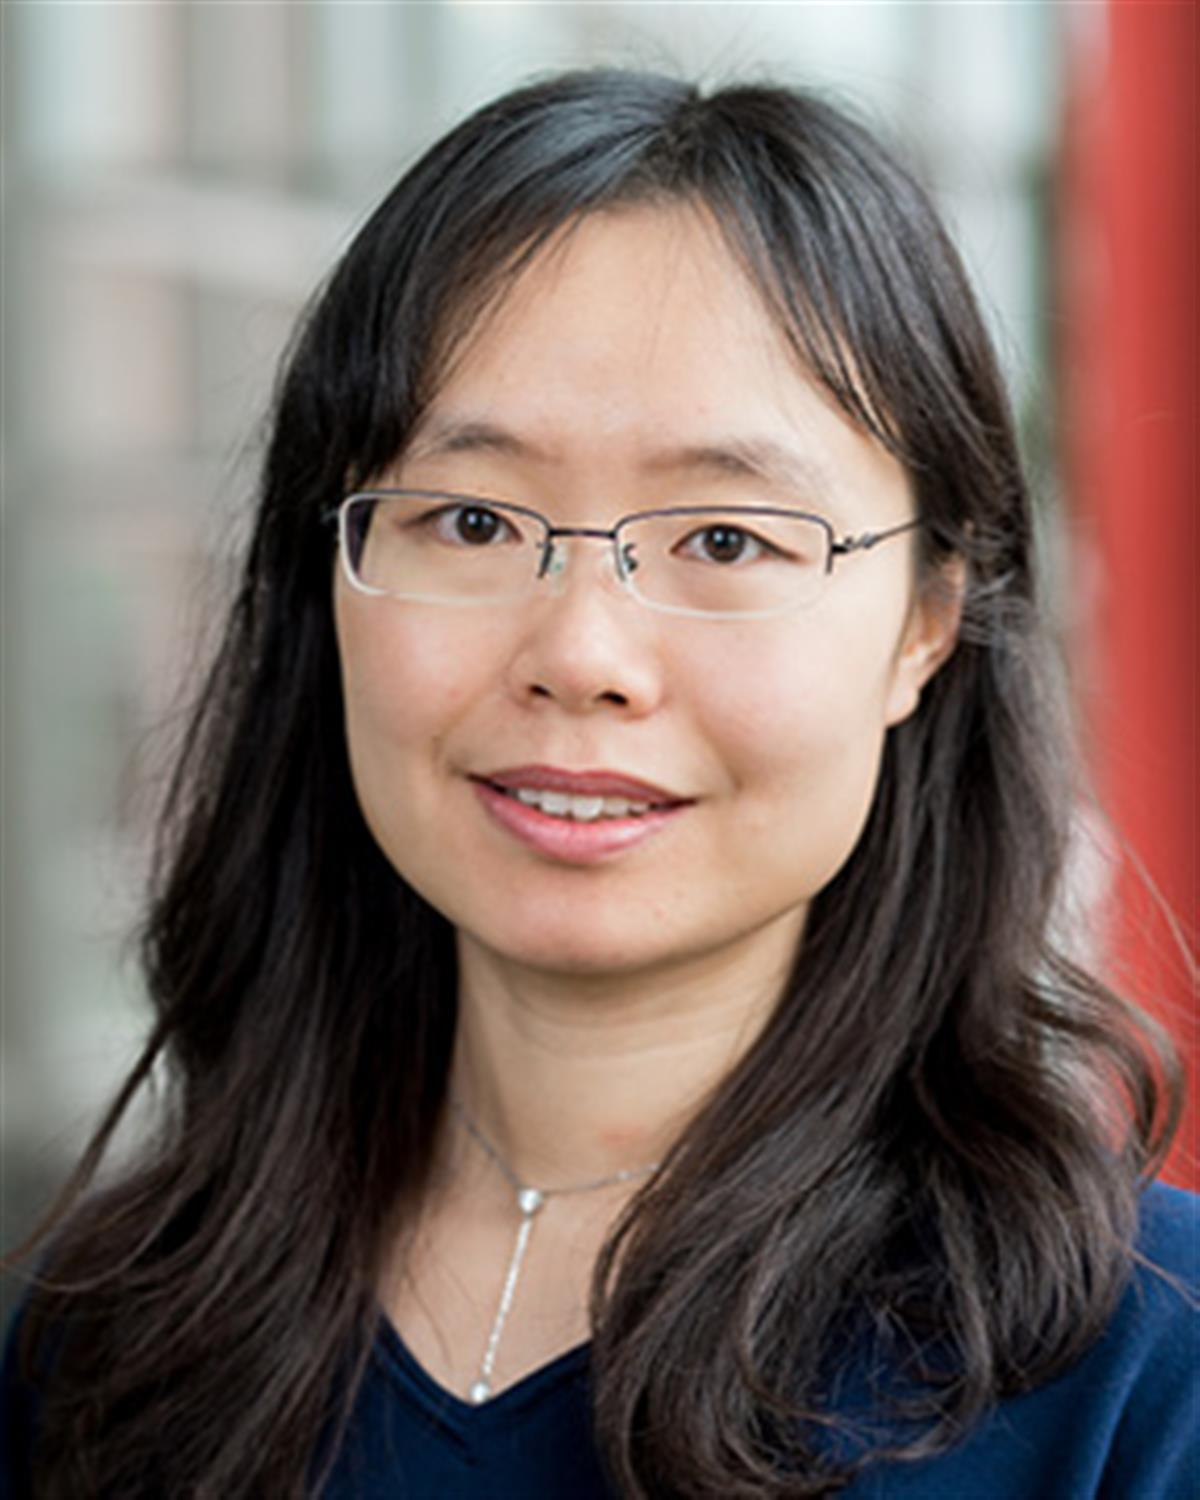
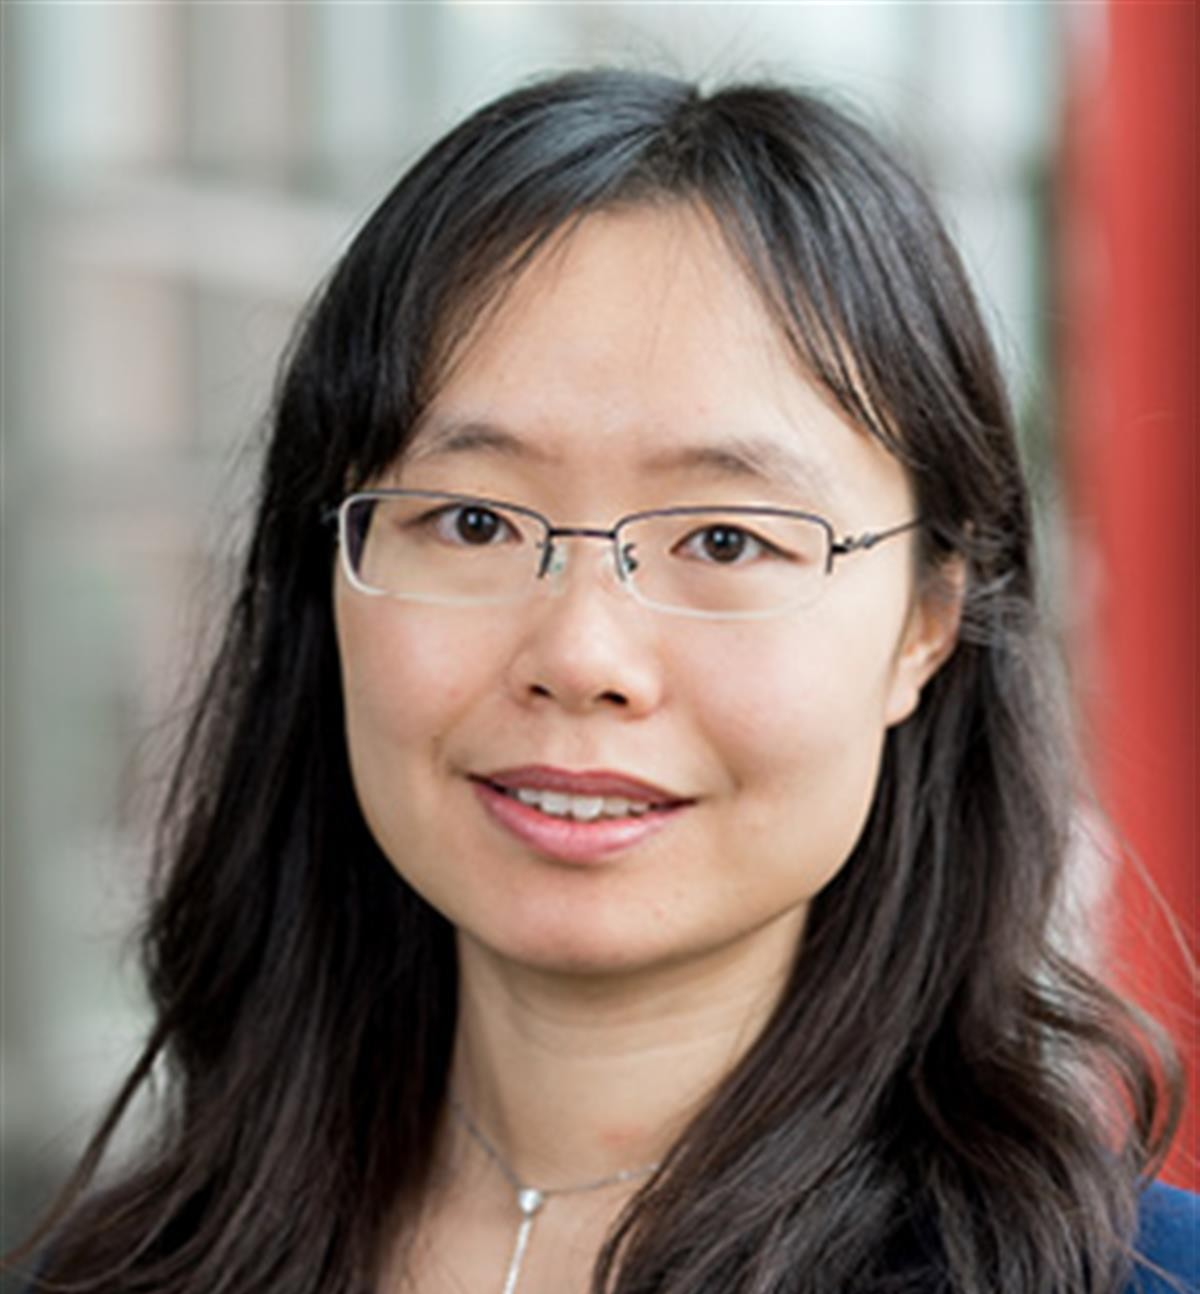
change profile pics

diff --git a/index.html b/index.html
@@ -196,7 +196,7 @@
 
     <!-- Example speaker card -->
     <div class="card text-center">
-      <img src="figures/katherine_kuchenbecker.jpg" alt="Katherine J. Kuchenbecker" class="mx-auto w-40 h-40 rounded-full object-cover">
+      <img src="figures/KJK_portrait.jpg" alt="Katherine J. Kuchenbecker" class="mx-auto w-40 h-40 rounded-full object-cover">
       <h4 class="mt-4 font-semibold">Katherine J. Kuchenbecker</h4>
       <p class="text-sm text-neutral-300">Max Planck Institute for Intelligent Systems</p>
       <!-- <p class="mt-1 text-xs text-neutral-400">Kinda Confirmed (in person)</p> -->
